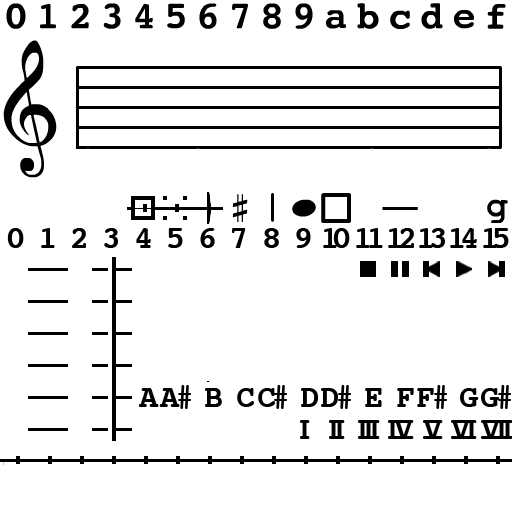
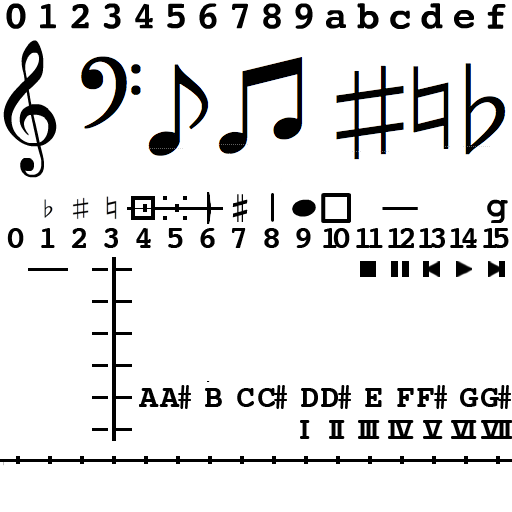
clef for now
everything but G#: test5.

diff --git a/exDisplay.js b/exDisplay.js
@@ -230,7 +230,7 @@ exSpriteTabRow.prototype = {
 ////////////////////////////////////////////////////////////////////
 // draws one line of a score in, in (treble) clef notation, from a sprite sheet. 
 // additional variables say whether to include the clef, start time, pace, and ...?
-// disclaimer: known flaws, noted in code. To do this "properly" is a large project. 
+// disclaimer: known flaws, some noted in code. To do this "properly" is a large project. 
 
 function exSpriteClefRow(aCanvas, aNoteList, x0, y0, tilesPerSec, aKey, showClef)  {
     this.theCanvas = new exSpriteCanvas(aCanvas, x0, y0); 
@@ -252,6 +252,7 @@ function exSpriteClefRow(aCanvas, aNoteList, x0, y0, tilesPerSec, aKey, showClef
     this.heights = [ 0.0, 0.0, 1.0,  1.0, 2.0, 3.0,  3.0, 4.0, 4.0,  5.0, 5.0, 6.0 ];
     this.decor =   [0, 1, 0,           1, 0, 0,         1, 0, 1,       0, 1, 0 ];
     this.sig = [0,0,0, 0,0,0, 0,0,0, 0,0,0];  // what notes are sharp or flat in key signature
+    this.sigHeights = [3.5,0,4.0, 0,4.5,5.0, 0,5.5,0, 2.5,3,0];  
 
     this.timeNumerator = -1; 
     this.timeDenominator = 4;
@@ -434,9 +435,9 @@ exSpriteClefRow.prototype = {
         this.theCanvas.drawStretchedSprite(gx,noteHeight, 9,6, 1,1, 1.75,1.75); 
         
         switch (this.decor[placeInScale]) { 
-            case 1: this.theCanvas.drawStretchedSprite(gx-.5,noteHeight-.2, 7,6, 1,1, 1.4,1.4); break;
-            case 2: this.theCanvas.drawStretchedSprite(gx-.5,noteHeight-.2, 11,0, 1,1, 1.4,1.4); break;
-            case 3: this.theCanvas.drawStretchedSprite(gx-.5,noteHeight-.2, 10,13, 1,1, 1.4,1.4); break;
+            case 1: this.theCanvas.drawStretchedSprite(gx-.5,noteHeight-.2, 2,6, 1,1, 1.4,1.4); break;
+            case 2: this.theCanvas.drawStretchedSprite(gx-.5,noteHeight-.2, 1,6, 1,1, 1.4,1.4); break;
+            case 3: this.theCanvas.drawStretchedSprite(gx-.5,noteHeight-.2, 3,6, 1,1, 1.4,1.4); break;
         }
         
         // note above staff? draw intevening lines
@@ -460,17 +461,29 @@ exSpriteClefRow.prototype = {
 
 
     redrawer: function() {
-        var i, p; 
+        var i, d, sx, sy, p; 
         // this.theCanvas.clear(); 
 
         for (i=0; i<5; i=i+1) {
             this.theCanvas.drawStretchedSprite(0,i,  1,8,  1,1,  this.theCanvas.tileW,1);  // lines
         } 
+
+        this.sigHeights = [1,0,.5,  0,0.0,-.5,  0,-1.0,0,  2.0,0,1.5];  
+
         if (this.showClef) {
             this.theCanvas.drawStretchedSprite(0,-1.0,  0, 1,  2, 5, 1.5,1.5); // clef
-            // key markings? 
 
-            if (this.timeNumerator>-1) { 
+            for (i=0; i<12; i=i+1) {     // key markings
+                d = this.sig[i];
+                sx = ((i%3)*.7)+2.5;
+                sy = this.sigHeights[i];
+                switch (d) { 
+                    case 1: this.theCanvas.drawStretchedSprite(sx,sy, 2,6, 1,1, 1.4,1.4); break;
+                    case 2: this.theCanvas.drawStretchedSprite(sx,sy, 1,6, 1,1, 1.4,1.4); break;
+                }
+            }
+
+            if (this.timeNumerator>-1) { // time markings
                 this.theCanvas.drawStretchedSprite(4,0.2,  this.timeNumerator,0, 1,1, 2.5,2.5); // numerator
                 this.theCanvas.drawStretchedSprite(4,2.2,  this.timeDenominator,0, 1,1, 2.5,2.5); // denominator
             }
@@ -658,180 +671,6 @@ exWebAudio.prototype = {
 }
 
 
-/*
-
-
-
-/////////////////  exTabDisplay: tab notation for guitars  
-/////////////////  exTabDisplay: tab notation for guitars  
-// the tab display has a two-measure area, a current and a next measure. 
-// there is a slider at the top, and it shows where you are in playback.
-
-// aHand, aNoteList..? 
-function exTabDisplay(aCanvas, aTimer) {
-    this.canvas = aCanvas; 
-    this.context = aCanvas.getContext("2d");
-        
-    this.context.fillStyle = 'white';
-    this.context.strokeStyle = "#000";
-    
-    this.timer = aTimer; 
-
-    this.loaded = 0; 
-    this.tiles = new Image(); 
-    this.tiles.src = "tabTiles01.png"; 
-    that = this;
-    this.tiles.onload = function(that) { that.loaded=1; }
-    this.tileSize = 32;     
-
-    this.timer = aTimer; 
-
-}
-
-// the scales, building off of fundamental tones
-// 
-
-
-
-exTabDisplay.prototype.copy = function (n) {  
-    // as above, so here. later
-}
-
-// 
-exTabDisplay.prototype.drawMinSprite = function(x, y, tx, ty) { 
-    var ts = this.tileSize; 
-    this.context.drawImage(this.tiles, tx*ts, ty*ts, ts, ts, x*ts, y*ts, ts, ts); 
-}
-
-exTabDisplay.prototype.drawSliderSprite = function(x, y, tx, ty) { 
-    var ts = this.tileSize; 
-    this.context.drawImage(this.tiles, tx*ts, ty*ts, ts, ts, x, y*ts, ts, ts); 
-}
-
-exTabDisplay.prototype.drawLargeSprite = function(x, y, tx, ty, txsz, tysz) { 
-    var ts = this.tileSize; 
-    this.context.drawImage(this.tiles, tx*ts, ty*ts, txsz*ts, tysz*ts, x*ts, y*ts, txsz*ts, tysz*ts); 
-}
-
-exTabDisplay.prototype.drawStretchedSprite = function(x, y, tx, ty, txsz, tysz, xscale, yscale) { 
-    var ts = this.tileSize; 
-    this.context.drawImage(this.tiles, tx*ts, ty*ts, txsz*ts, tysz*ts, x*ts, y*ts, txsz*ts*xscale, tysz*ts*yscale); 
-}
-
-
-    the whole point of this is... not this. 
-exTabDisplay.prototype.drawMidi = function(midi, step) { 
-    var site = this.aTunedHand.getFretForNote(midi); 
-    this.drawPluck(site[0], site[1], step); 
-}
-
-    
-
-
-exTabDisplay.prototype.clear = function() {
-    this.objCount = 1;
-    this.iteratorCounter = 0;
-    
-    this.cxw = this.context.canvas.width; 
-    this.cxh = this.context.canvas.height; 
-    
-    this.context.fillStyle = this.bg;
-    this.context.beginPath();
-    this.context.rect(0,0, this.cxw, this.cxh);
-    this.context.fill();
-        
-}
-
-// given a MIDI tone and a place on the measures, draw. 
-exTabDisplay.prototype.drawPluck = function(string, fret, tm, ppn) { 
-    var t0,mi,bpms,px,py,tx,ty; 
-    
-    t0 = this.timer.lastMeasureTime;
-    mi = this.timer.measureInterval; 
-    bi = this.timer.beatInterval; 
-    bpms = this.timer.beatsPerMeasure; 
-
-    px = (((tm-t0)/mi)*bpms);
-    if ((px>=-0.01)&&(px<=(2.99*bpms))) {
-        if (px>=((bpms*2)-0.1)) {
-            px +=3.0; 
-        }
-        if (px>=(bpms-0.1)) {
-            px += 4.2; 
-        } else {
-            px += 1.2; 
-        } 
-        py = 6-string; 
-
-        // get the fret and string of the note-- without moving your hand
-        tx = fret; 
-        ty = 0; 
-        this.drawMinSprite(px,py, tx,ty); 
-    }
-
-    // also draw below
-    // what measure is this note in? 
-    px = tm-t0; 
-    ms = Math.floor((px/mi)+0.1);
-    if ((ms>=0) && (ms<20)) {
-        px = px/bi; 
-        px = ((px+ms)*ppn)+6;
-        spx = 10-string;
-        this.drawSliderSprite(px,8, spx,9);
-    }
-}
-
-
-
-exTabDisplay.prototype.redrawer = function(noteList) {
-    var i, p, x, plusx, perc, bpm, nc, mstart, bt, intv; 
-
-    this.clear(); 
-    bpm = this.timer.beatsPerMeasure; 
-
-    // two time sliders: one for measure
-    perc = this.timer.measureFraction;
-    x = this.tileSize * ((this.timer.beatsPerMeasure * perc)+1.0); 
-    this.drawSliderSprite(x, 0, 2,9);
-    // .. one for beat.
-    perc = this.timer.beatFraction;
-    x = this.tileSize * (perc+1.0); 
-    this.drawSliderSprite(x, 0, 2,9);
-
-    // draw two measures of tab
-    this.drawLargeSprite(0,1, 3,1, 1,6); //xy txy sxy  left bar
-    this.drawLargeSprite(bpm+3,1, 3,1, 1,6); //xy txy sxy  rt bar
-    this.drawLargeSprite((bpm*2)+6,1, 3,1, 1,6); //xy txy sxy  rt bar
-    this.drawStretchedSprite(1,1, 1,1, 1,6, bpm+1,1); // vert bar on left
-    this.drawStretchedSprite(4+bpm,1, 1,1, 1,6, bpm+1,1); // on rt
-    this.drawStretchedSprite(7+(bpm*2),1, 1,1, 1,6, bpm+1,1); // on rt
-    this.drawLargeSprite(1,0, 0,8, bpm+1,1); // beats ticks above left
-    this.drawLargeSprite(4+bpm,0, 0,8, bpm+1,1); // above rt
-    this.drawLargeSprite(7+(bpm*2),0, 0,8, bpm+1,1); // above rt
-
-    // draw the miniscore at the bottom. instead of one sprite/beat, 
-    // vertical scale is 8 px/beat
-    var pxPerNote = 8; 
-    this.drawStretchedSprite(0,8, 4,9, 1,1, 26,1); // horiz lines
-    nc = 30; 
-    if (noteList.length<nc) { nc = noteList.length; }
-    for (i=0; i<30; i=i+1) { // measure vert bars
-        this.drawSliderSprite(i*pxPerNote*(bpm+1), 8, 3,9); 
-    }
-    
-
-    // plucks!
-    for (i=0; i<noteList.length; i=i+1) {
-        p = noteList[i]; 
-        this.drawPluck(p[2], p[3], p[1], 8.0); 
-    }
-}
-
-        
-
-
-
-*/
 
 ///////////////////////////////////////// exControls
 ////////////////////////////////////////////////////////////////////
@@ -911,63 +750,7 @@ exControls.prototype = {
         return res; 
     },
 
-/*      [ 0, 2,4, 5,7,9,11 ], // major
-        [ 0, 2,3, 5,7,8,10 ], // minor
-        [ 0, 2,3, 5,7,9,10 ], // dorian
-        [ 0, 2,4, 5,6,10   ], // wholetone
-        [ 0, 2,3, 6,7,8,10 ], // "hungarian"
-        [ 0, 4,6, 7,11     ], // "chinese"
-        [ 0, 1,3, 5,7,9,10 ]  // "javan"
-        [ 0,1,2,3,4,5,6,7,8,9,10,11 ]  // 12 */
 
-    getHTMLForMode: function() { 
-        var res = "<select id='exMode'>";
-        res = res + "<option value='0' selected>Major</option>";
-        res = res + "<option value='1'>Minor</option>";
-        res = res + "<option value='2'>Dorian</option>";
-        res = res + "<option value='3'>Whole</option>";
-        res = res + "<option value='4'>Hungarian</option>";
-        res = res + "<option value='5'>Pentatonic</option>";
-        res = res + "<option value='6'>Heptatonic</option>";
-        res = res + "<option value='7'>12</option>"; // seriously? kinda moots key.
-        res = res + "</select>";
-        return res; 
-    },
-    getValueForMode: function() {
-        var res = parseInt(this.document.getElementById('exMode').value); 
-        return res; 
-    },
-
-    /*  if (which==0) { this.strings = [40,45,50,55,59,64]; } // standard guitar e2 a2 d3 g3 b3 e4
-        if (which==1) { this.strings = [38,45,50,54,57,62]; } // open D    d2 a2 d3 f#3 a3 d4
-        if (which==2) { this.strings = [48,52,55,60,64,67]; } // open C    c3 e3 g3 c4 e4 g4
-        if (which==3) { this.strings = [40,45,50,54,59,64]; } // don't remember! low!
-        // the one for el noy, the one for passemezze
-        if (which==10) { this.strings = [67,60,64,69]; } // uke!    g4 c4 e4 a4
-        if (which==11) { this.strings = [55,62,69,76]; } // violin   g3,d4,a4,e5
-        if (which==12) { this.strings = [55,62,69,76]; } // mandolin   as violin
-        if (which==13) { this.strings = [67,50,55,59,62]; } // banjo   g4,d3,g3,b3,d4
-        if (which==14) { this.strings = [36,43,50,57]; } // cello   c2,g2,d3,a3
-        // Bazooki? Udtz? Samisan? Sitar?! 
-        For use with exTunedHand
-    */
-    getHTMLForTuning: function() { 
-        var res = "<select id='exTuning'>";
-        res = res + "<option value='0' selected>Standard Guitar</option>";
-        res = res + "<option value='1' selected>Guitar Drop D</option>";
-        res = res + "<option value='2' selected>Open C</option>";
-        res = res + "<option value='3' selected>EADF#BE</option>";
-        res = res + "<option value='10' selected>Ukulele</option>";
-        res = res + "<option value='11' selected>Violin/Mandolin</option>";
-        res = res + "<option value='13' selected>Banjo</option>";
-        res = res + "<option value='14' selected>Cello</option>";
-        res = res + "</select>";
-        return res; 
-    },
-    getValueForTuning: function() {
-        var res = parseInt(this.document.getElementById('exTuning').value); 
-        return res; 
-    },
 
 
 

diff --git a/tests/test05.html b/tests/test05.html
@@ -16,25 +16,21 @@
 			baseNote.t = i*.75; 
 			baseNote.midi = 36+i; 
 			theList.add(baseNote); 
+			baseNote.t = i*.75; 
+			baseNote.midi = 48+i; 
+			theList.add(baseNote); 
 		}
 
 	}
 
 
-	function setParameters() { 
-        theKey.setModeFromHTMLControl(document);
-        theClef.setKey(theKey); 
-       	generate(); 
-	}
-
-
 	function starter() { 
-		base = 0; 
+		base = 30; 
 		theKey = new exKey(); 
 		generate(); 
 
-		var theConts = document.getElementById("exControlHolder");
-		theConts.innerHTML = theKey.getHTMLForModeControl("key1");
+//		var theConts = document.getElementById("exControlHolder");
+//		theConts.innerHTML = theKey.getHTMLForModeControl("key1");
 
 		var theCanvas = document.getElementById("mainCanvas");
 		theClef = new exSpriteClefRow(theCanvas, theList, 0,6, 2, theKey, true);
@@ -44,25 +40,27 @@
 		theLine = new exSpriteTimeLine(theCanvas, theList, 0,2, 2, theMet, true);
 		theLine.redrawer(); 
 
-		setInterval(redraw,6000);  
+		setInterval(redraw,1000);  
 	}
 
 	function redraw() {
 		console.log("redraw");
-		base = base+1;  
-		theKey.setTonic((base%12)+40);
+		base = base+1;
+		if (base>80) { base = 30; }  
+		theKey.setTonic(base);
 		generate(); 
 		theClef.clearAll(); 
 		theClef.setKey(theKey);
 		theClef.redrawer(); 
 		theLine.redrawer(); 
 
+		theClef.theCanvas.drawSprite(0,7,4+((base+3)%12),12); 
 	}
 
 	</script>
 </head>
 <body  onLoad="starter();">
-	Test 5: HTML-control input => composition and re-composition.
+	Test 5: Clef with signatures, modes, and keys. Except G#
 	<canvas id="mainCanvas" width="782" height="320"></canvas> 
 <br> 
 	<div id="exControlHolder"></div>
